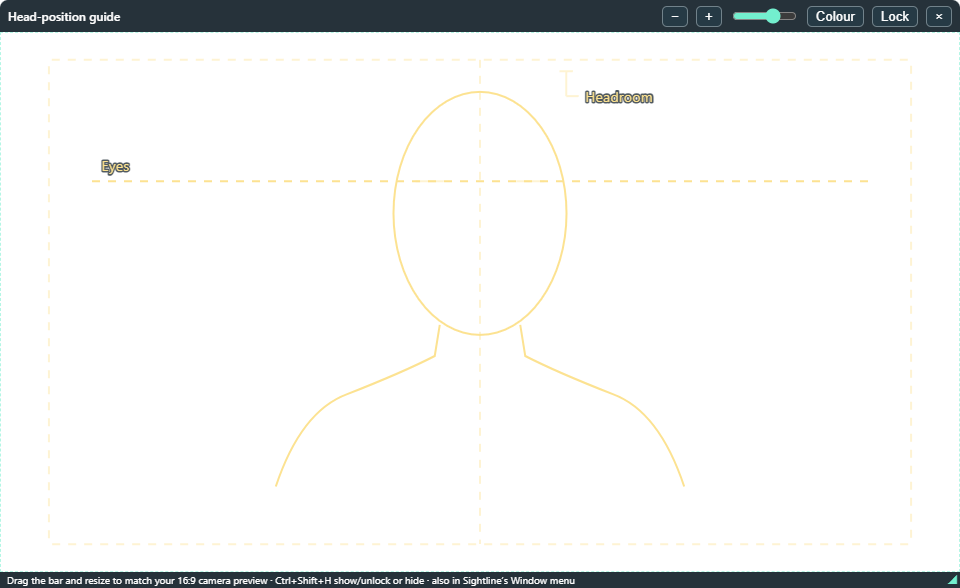
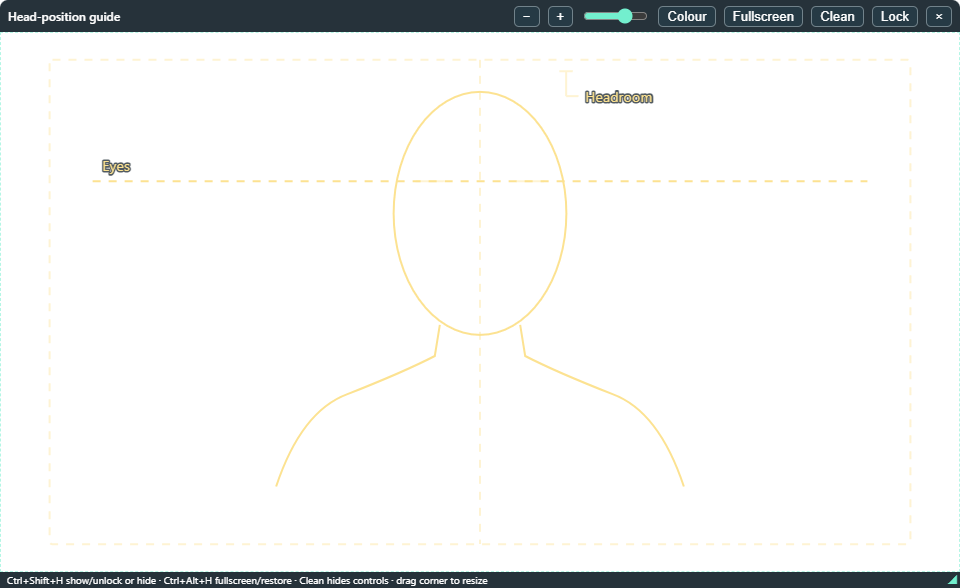
Add fullscreen projector stacking and chromeless head guide

diff --git a/src/head-guide.js b/src/head-guide.js
@@ -1,41 +1,73 @@
 // A framing aid above the camera preview, never an OBS scene source.
 import { BrowserWindow, globalShortcut, ipcMain, screen } from "electron";
 import path from "node:path";
+import { fitInside } from "./utils/fit.js";
 
 const HOTKEY = "CommandOrControl+Shift+H";
-export function createHeadGuide( { dir, prompter, getSettings, saveSettings, saveBounds, onChange } ) {
+const FULLSCREEN_HOTKEY = "CommandOrControl+Alt+H";
+export function createHeadGuide( { dir, prompter, getSettings, saveSettings, saveBounds, onChange, restoreStack } ) {
 	let overlay = null;
 	let locked = false;
 	let resizing = null;
 	let saveTimer;
+	let fullscreen = false;
+	let normalBounds = null;
 	const state = () => {
 		const s = getSettings();
-		return { locked, scale: Math.max( 0.7, Math.min( 1.4, Number( s.headGuideScale ) || 1 ) ), opacity: Math.max( 0.2, Math.min( 1, Number( s.headGuideOpacity ) || 0.75 ) ), colour: s.headGuideColour === "gold" ? "gold" : "mint" };
+		return { locked, fullscreen, chromeless: s.headGuideChromeless === true, scale: Math.max( 0.7, Math.min( 1.4, Number( s.headGuideScale ) || 1 ) ), opacity: Math.max( 0.2, Math.min( 1, Number( s.headGuideOpacity ) || 0.75 ) ), colour: s.headGuideColour === "gold" ? "gold" : "mint" };
 	};
 	const send = () => overlay?.webContents.send( "headGuideState", state() );
 	function remember() {
 		clearTimeout( saveTimer );
 		saveTimer = setTimeout( () => {
-			if ( overlay ) saveBounds( overlay.getBounds() );
+			if ( overlay && !fullscreen ) saveBounds( overlay.getBounds() );
 		}, 200 );
 	}
 	function unlock() {
 		if ( !overlay ) return;
 		locked = false;
+		saveSettings( { headGuideChromeless: false } );
 		overlay.setIgnoreMouseEvents( false );
-		overlay.show();
+		overlay.showInactive();
+		restack();
 		send();
 		onChange();
 	}
 	function close() {
 		clearTimeout( saveTimer );
 		if ( overlay ) {
-			saveBounds( overlay.getBounds() );
+			saveBounds( fullscreen ? normalBounds : overlay.getBounds() );
 			overlay.destroy();
 		}
 		overlay = null;
 		locked = false;
 		resizing = null;
+		fullscreen = false;
+		normalBounds = null;
+		if ( !prompter.isDestroyed() ) restoreStack();
+	}
+	function restack() {
+		if ( !overlay || prompter.isDestroyed() ) return;
+		overlay.setAlwaysOnTop( true, "floating" );
+		overlay.moveTop();
+		prompter.setAlwaysOnTop( true, "screen-saver" );
+		prompter.moveTop();
+	}
+	function fitMode() {
+		if ( !overlay ) return;
+		const wanted = getSettings().headGuideFullscreen === true;
+		if ( wanted && !fullscreen ) normalBounds = overlay.getBounds();
+		if ( wanted ) {
+			fullscreen = true;
+			overlay.setBounds( screen.getDisplayMatching( overlay.getBounds() ).bounds );
+		} else if ( fullscreen ) {
+			fullscreen = false;
+			overlay.setBounds( fitInside( normalBounds, screen.getDisplayMatching( normalBounds ).workArea ) );
+		}
+	}
+	function toggleFullscreen() {
+		const next = !overlay || !getSettings().headGuideFullscreen;
+		saveSettings( { showHeadGuide: true, headGuideFullscreen: next, headGuideChromeless: next } );
 	}
 	function apply() {
 		if ( !getSettings().showHeadGuide ) {
@@ -54,7 +86,11 @@ export function createHeadGuide( { dir, prompter, getSettings, saveSettings, sav
 			// Independent of the prompter's Hide from capture preference.
 			overlay.setContentProtection( true );
 			overlay.loadFile( path.join( dir, "client", "head-guide.html" ) );
-			overlay.once( "ready-to-show", () => overlay?.show() );
+			overlay.once( "ready-to-show", () => {
+				overlay?.showInactive();
+				restack();
+			} );
+			overlay.on( "focus", restack );
 			overlay.on( "move", remember );
 			overlay.on( "close", ( event ) => {
 				event.preventDefault();
@@ -63,10 +99,12 @@ export function createHeadGuide( { dir, prompter, getSettings, saveSettings, sav
 			overlay.webContents.on( "will-navigate", event => event.preventDefault() );
 			overlay.webContents.setWindowOpenHandler( () => ( { action: "deny" } ) );
 		}
+		fitMode();
+		restack();
 		send();
 	}
 	function toggle() {
-		if ( overlay && locked ) unlock();
+		if ( overlay && ( locked || getSettings().headGuideChromeless ) ) unlock();
 		else saveSettings( { showHeadGuide: !getSettings().showHeadGuide } );
 	}
 	function action( event, name, value ) {
@@ -76,12 +114,17 @@ export function createHeadGuide( { dir, prompter, getSettings, saveSettings, sav
 			toggle();
 			return;
 		}
+		if ( name === "fullscreen" ) {
+			toggleFullscreen();
+			return;
+		}
 		if ( !fromOverlay ) return;
 		if ( name === "ready" ) {
 			send();
-			if ( !hotkeyRegistered ) prompter.webContents.send( "toast", "Head guide hotkey is in use. Use the Window menu or Stream Deck to unlock or hide it." );
+			if ( !hotkeyRegistered || !fullscreenHotkeyRegistered ) prompter.webContents.send( "toast", "A head guide hotkey is in use. Use the Window menu or Stream Deck for the guide controls." );
 		}
 		if ( name === "hide" ) saveSettings( { showHeadGuide: false } );
+		if ( name === "chrome" ) saveSettings( { headGuideChromeless: !getSettings().headGuideChromeless } );
 		if ( name === "lock" ) {
 			locked = true;
 			send();
@@ -95,7 +138,7 @@ export function createHeadGuide( { dir, prompter, getSettings, saveSettings, sav
 			if ( Object.keys( patch ).length ) saveSettings( patch );
 		}
 		if ( name === "colour" ) saveSettings( { headGuideColour: state().colour === "mint" ? "gold" : "mint" } );
-		if ( name === "resize-start" ) resizing = { cursor: screen.getCursorScreenPoint(), bounds: overlay.getBounds() };
+		if ( name === "resize-start" && !fullscreen ) resizing = { cursor: screen.getCursorScreenPoint(), bounds: overlay.getBounds() };
 		if ( name === "resize-end" ) {
 			resizing = null;
 			remember();
@@ -108,12 +151,27 @@ export function createHeadGuide( { dir, prompter, getSettings, saveSettings, sav
 	}
 	ipcMain.on( "headGuideAction", action );
 	const hotkeyRegistered = globalShortcut.register( HOTKEY, toggle );
+	const fullscreenHotkeyRegistered = globalShortcut.register( FULLSCREEN_HOTKEY, toggleFullscreen );
+	const displaysChanged = () => {
+		if ( !overlay ) return;
+		if ( fullscreen ) fitMode();
+		else overlay.setBounds( fitInside( overlay.getBounds(), screen.getDisplayMatching( overlay.getBounds() ).workArea ) );
+		send();
+		restack();
+	};
+	screen.on( "display-removed", displaysChanged );
+	screen.on( "display-metrics-changed", displaysChanged );
+	prompter.on( "focus", restack );
 	return {
-		apply, toggle, isLocked: () => locked,
+		apply, toggle, toggleFullscreen, restack, isLocked: () => locked,
 		dispose() {
 			close();
 			ipcMain.removeListener( "headGuideAction", action );
 			if ( hotkeyRegistered ) globalShortcut.unregister( HOTKEY );
+			if ( fullscreenHotkeyRegistered ) globalShortcut.unregister( FULLSCREEN_HOTKEY );
+			screen.removeListener( "display-removed", displaysChanged );
+			screen.removeListener( "display-metrics-changed", displaysChanged );
+			prompter.removeListener( "focus", restack );
 		}
 	};
 }

diff --git a/src/main.js b/src/main.js
@@ -148,6 +148,8 @@ const defaultSettings = {
 	headGuideScale: 1,
 	headGuideOpacity: 0.75,
 	headGuideColour: "mint",
+	headGuideFullscreen: false,
+	headGuideChromeless: false,
 	showControl: false, // the control window for the operator screen (Ctrl+Shift+O)
 	controlBounds: null, // where the control window was left
 	prompterDisplay: null, // monitor id: open the prompter full screen there
@@ -419,6 +421,7 @@ function applyWindowSettings( win, wasEyeLine ) {
 	// Click-through: the renderer turns mouse events back on while the pointer
 	// is over the control bar or a panel, so the controls stay usable.
 	win.setIgnoreMouseEvents( !!settings.clickThrough, { forward: true } );
+	framingGuide?.restack();
 }
 
 const emptySlotHtml = index =>
@@ -1214,6 +1217,7 @@ const createWindow = ( state ) => {
 			reloadGoogleDoc: () => refreshGoogleDoc( currentFilePath, true ),
 			openGuide: page => guide.open( page ),
 			toggleHeadGuide: () => framingGuide?.toggle(),
+			toggleHeadGuideFullscreen: () => framingGuide?.toggleFullscreen(),
 			isMaximized: windowMode === "maximized",
 			displays: displayList()
 		} );
@@ -1428,7 +1432,8 @@ app.whenReady().then( async () => {
 		"scroll-mode", // steady or voice scrolling
 		"pad", // the floating control pad open or closed
 		"control", // the control window open or closed
-		"head-guide" // show/unlock or hide the framing overlay
+		"head-guide", // show/unlock or hide the framing overlay
+		"head-guide-fullscreen" // fullscreen framing overlay / restore
 	];
 
 	// The prompter's state, for GET /status and the GET /events stream.
@@ -1447,6 +1452,8 @@ app.whenReady().then( async () => {
 		showControl: !!settings.showControl,
 		showHeadGuide: !!settings.showHeadGuide,
 		headGuideLocked: framingGuide?.isLocked() ?? false,
+		headGuideFullscreen: !!settings.headGuideFullscreen,
+		headGuideChromeless: !!settings.headGuideChromeless,
 		windowMode,
 		...rendererStatus,
 		commands: REMOTE_COMMANDS
@@ -1638,7 +1645,8 @@ app.whenReady().then( async () => {
 			settings.headGuideBounds = bounds;
 			if ( !win.isDestroyed() ) saveState( win );
 		},
-		onChange: () => publishRemoteState()
+		onChange: () => publishRemoteState(),
+		restoreStack: () => win.setAlwaysOnTop( windowMode === "fullscreen" || settings.eyeLine || settings.alwaysOnTop, windowMode === "fullscreen" ? "screen-saver" : "floating" )
 	} );
 	framingGuide.apply();
 	win.on( "closed", () => framingGuide.dispose() );

diff --git a/src/client/head-guide.css b/src/client/head-guide.css
@@ -1,6 +1,6 @@
 * { box-sizing: border-box; }
 html, body { margin: 0; width: 100%; height: 100%; overflow: hidden; background: transparent; font: 13px 'Segoe UI', sans-serif; color: #fff; }
-header { height: 32px; display: flex; align-items: center; gap: 8px; padding: 0 8px; background: #15222bed; border-radius: 8px 8px 0 0; -webkit-app-region: drag; }
+header { position: relative; z-index: 2; height: 32px; display: flex; align-items: center; gap: 8px; padding: 0 8px; background: #15222bed; border-radius: 8px 8px 0 0; -webkit-app-region: drag; }
 header strong { margin-right: auto; text-wrap: balance; font-size: 12px; font-weight: 500; min-width: 0; }
 button, input { -webkit-app-region: no-drag; }
 button { border: 1px solid #71828a; border-radius: 5px; padding: 2px 8px; background: #263a45; color: #fff; cursor: pointer; }
@@ -18,3 +18,9 @@ footer { position: absolute; bottom: 0; left: 0; right: 0; height: 16px; backgro
 #resize::after { content: '◢'; position: absolute; bottom: 0; right: 2px; color: #72efce; }
 body.locked header, body.locked footer, body.locked #resize { visibility: hidden; }
 body.locked #stage { border-color: transparent; }
+body.chromeless header, body.chromeless footer, body.chromeless #resize { visibility: hidden; }
+body.chromeless #stage { border-color: transparent; }
+body.fullscreen #stage { inset: 0; border: 0; }
+body.fullscreen header, body.fullscreen footer { z-index: 2; }
+body.fullscreen header { -webkit-app-region: no-drag; }
+body.fullscreen #resize { display: none; }

diff --git a/src/client/teleprompter.js b/src/client/teleprompter.js
@@ -3605,6 +3605,7 @@ function menuGroups() {
 			heading: "Window",
 			items: [
 				[ "◎", "Head-position guide / unlock", "Ctrl+Shift+H", () => window.electron.headGuide(), { checked: !!settings.showHeadGuide } ],
+				[ "⛶", "Head guide fullscreen / restore", "Ctrl+Alt+H", () => window.electron.headGuide( "fullscreen" ), { checked: !!settings.showHeadGuide && !!settings.headGuideFullscreen } ],
 				[
 					"▦",
 					"Control pad (floating buttons)",
@@ -4815,6 +4816,10 @@ function runRemoteAction( action, value ) {
 		obsUi.action( "stop" );
 		return;
 	}
+	if ( action === "head-guide" || action === "head-guide-fullscreen" ) {
+		window.electron.headGuide( action === "head-guide" ? "toggle" : "fullscreen" );
+		return;
+	}
 	if ( isEditMode && action !== "help" ) return;
 	if ( action === "play" && ( !isScrolling() || offScript ) ) toggleAutoScrollSession();
 	else if ( action === "pause" && isScrolling() ) toggleAutoScrollSession();
@@ -4857,7 +4862,6 @@ function runRemoteAction( action, value ) {
 	else if ( action === "scroll-mode" ) window.electron.saveSettings( { scrollMode: settings.scrollMode === "voice" ? "steady" : "voice" } );
 	else if ( action === "pad" ) window.electron.saveSettings( { showPad: !settings.showPad } );
 	else if ( action === "control" ) window.electron.saveSettings( { showControl: !settings.showControl } );
-	else if ( action === "head-guide" ) window.electron.headGuide();
 	sendStatus();
 }
 window.electron.onRemoteCommand( runRemoteAction );

diff --git a/src/client/head-guide.html b/src/client/head-guide.html
@@ -13,11 +13,13 @@
 <button id="bigger" title="Larger head outline">+</button>
 <input id="opacity" aria-label="Guide opacity" title="Guide opacity" type="range" min="20" max="100" value="75">
 <button id="colour" title="Switch guide colour">Colour</button>
+<button id="fullscreen" title="Fill this screen / restore · Ctrl+Alt+H">Fullscreen</button>
+<button id="chrome" title="Hide controls · Ctrl+Shift+H to restore">Clean</button>
 <button id="lock" title="Click-through. Ctrl+Shift+H to show and unlock">Lock</button>
 <button id="close" aria-label="Close guide">×</button>
 </header>
 <div id="stage">
-<svg viewBox="0 0 1000 562.5" preserveAspectRatio="none" aria-label="Camera framing guide">
+<svg viewBox="0 0 1000 562.5" preserveAspectRatio="xMidYMid meet" aria-label="Camera framing guide">
 <rect class="line quiet dashed" x="50" y="28" width="900" height="506.5" rx="3"/>
 <path class="line quiet dashed" d="M500 28V534"/>
 <path class="line dashed" d="M95 155H905"/>
@@ -31,7 +33,7 @@
 <path class="line quiet" d="M603 66H590M590 40V66M583 40H597"/>
 </svg>
 </div>
-<footer>Drag the bar and resize to match your 16:9 camera preview · Ctrl+Shift+H show/unlock or hide · also in Sightline’s Window menu</footer>
+<footer>Ctrl+Shift+H show/unlock or hide · Ctrl+Alt+H fullscreen/restore · Clean hides controls · drag corner to resize</footer>
 <div id="resize" title="Drag to resize"></div>
 <script type="module" src="head-guide.js"></script>
 </body>

diff --git a/src/client/head-guide.js b/src/client/head-guide.js
@@ -4,8 +4,13 @@ let scale = 1;
 let resize = false;
 document.querySelector( "#close" ).onclick = () => guide.action( "hide" );
 document.querySelector( "#lock" ).onclick = () => guide.action( "lock" );
+document.querySelector( "#fullscreen" ).onclick = () => guide.action( "fullscreen" );
+document.querySelector( "#chrome" ).onclick = () => guide.action( "chrome" );
 guide.onState( ( value ) => {
 	document.body.classList.toggle( "locked", value.locked );
+	document.body.classList.toggle( "fullscreen", value.fullscreen );
+	document.body.classList.toggle( "chromeless", value.chromeless );
+	document.querySelector( "#fullscreen" ).textContent = value.fullscreen ? "Restore" : "Fullscreen";
 	scale = value.scale;
 	document.querySelector( "#head" ).setAttribute( "transform", `translate(500 155) scale(${ scale }) translate(-500 -155)` );
 	document.querySelector( "#opacity" ).value = value.opacity * 100;

diff --git a/src/client/shortcuts.js b/src/client/shortcuts.js
@@ -93,6 +93,7 @@ export const SHORTCUTS = [
 			[ [ "Ctrl+Shift+X" ], "Click-through on / off (works from any app)" ],
 			[ [ "Ctrl+Shift+P" ], "Floating control pad: Start / Pause, Top, Previous, Next" ],
 			[ [ "Ctrl+Shift+H" ], "Head-position guide: show and unlock, or hide (works from any app)" ],
+			[ [ "Ctrl+Alt+H" ], "Head guide fullscreen on this screen / restore (works from any app)" ],
 			[ [ "Ctrl+Shift+O" ], "Control window: a live, upright copy of the script with the buttons, for the operator screen" ],
 			[ [ "Ctrl+," ], "Settings" ],
 			[ [ "F1", "?" ], "This help" ],

diff --git a/src/menus.js b/src/menus.js
@@ -23,6 +23,7 @@ export function buildMenus(
 		reloadGoogleDoc,
 		openGuide,
 		toggleHeadGuide,
+		toggleHeadGuideFullscreen,
 		displays = []
 	}
 ) {
@@ -281,6 +282,12 @@ export function buildMenus(
 					type: "checkbox",
 					checked: !!settings.showHeadGuide,
 					click: () => toggleHeadGuide?.()
+				},
+				{
+					label: "Head Guide Fullscreen / Restore (Ctrl+Alt+H)",
+					type: "checkbox",
+					checked: !!settings.showHeadGuide && !!settings.headGuideFullscreen,
+					click: () => toggleHeadGuideFullscreen?.()
 				},
 				{
 					label: "Keep on Top",

diff --git a/docs/guide/06-remotes-and-screens.md b/docs/guide/06-remotes-and-screens.md
@@ -15,10 +15,33 @@ claimed the hotkey, a toast explains how to recover through the menu or key.
 The guide remembers its position, size and appearance; it stays upright when
 the prompter is mirrored. **×** closes it. Closing Sightline closes it too.
 
+For the projector setup, put the **OBS Preview Projector at the bottom**, the
+**head guide in the middle**, and **Sightline text above**. While the guide is
+open, Sightline temporarily keeps the prompter above it, then restores your
+Keep on top preference when the guide closes. The prompter needs a transparent
+background to see the camera; the guide does not change that opacity for you.
+Check this order with your real projector, particularly if OBS's projector
+is itself set Always on top; turn that OBS option off if it competes.
+
+**Fullscreen** on the guide, **Ctrl+Alt+H** globally (Cmd+Alt+H on Mac), or the
+**Head guide fullscreen** Stream Deck action fills the guide's current monitor
+and hides its toolbar. It uses a borderless screen-sized window so the three
+layers can remain together. On a non-16:9 display, the guide keeps its shape
+with the same centered fit as a 16:9 camera projector. The next fullscreen
+press restores the saved window size and shows controls. It does not change
+OBS's projector mode or the prompter's own fullscreen setting.
+
+**Clean** hides the guide's toolbar/footer without resizing the window. The
+regular guide hotkey/key reveals controls or unlocks it without leaving
+fullscreen. **Lock** additionally passes clicks through. Windowed and
+fullscreen choices are remembered, as is the original window position.
+
 The companion Stream Deck development branch adds a **Head-position guide**
 action you can drag onto any key. It shows **OFF**, **ON** or **LOCK**, using
 Sightline's status feed. Older app versions flash an alert instead of sending
 an unsupported command. Existing sample-profile key assignments are unchanged.
+
+The separate **Head guide fullscreen** action shows **FULL** or **WIN**.
 
 This is a separate desktop window, not an OBS scene source. Camera-only OBS
 recordings do not include it. It always requests capture protection, even if

diff --git a/readme.md b/readme.md
@@ -222,6 +222,8 @@ Planned features and their order are in [ROADMAP.md](ROADMAP.md).
 
 ### Next release
 
+- **Head guide for an OBS projector stack (development):** borderless fullscreen on its current monitor, Clean to hide controls, and restoration of its windowed size. Global **Ctrl+Alt+H** and a second Stream Deck action toggle fullscreen; **Ctrl+Shift+H** reveals controls without leaving it. The guide stays above the projector with prompter text above the guide; the app restores the prompter's Keep on top preference when it closes. Check against a real OBS projector, especially its own Always on top option
+
 - **Floating head-position guide (development):** a transparent overlay with eye line, head and shoulder outline, size, opacity and colour controls. Open from **☰ > Window** or global **Ctrl+Shift+H** (Cmd+Shift+H on Mac). Show/unlock, then hide on the next press; Lock makes clicks pass through. Position and preferences are remembered. A matching Stream Deck action shows OFF, ON or LOCK. No OBS connection is required. It is not an OBS source; capture protection stays enabled independently of the prompter. Whole-screen capture needs a short recording check. On the OBS branch, awaiting merge and release
 
 - **Scroll mode, the pad and the control window from a remote:** the local API and the Stream Deck plugin (0.1.5) gain `scroll-mode` (steady or voice scrolling), `pad` (the floating control pad) and `control` (the control window, **Ctrl+Shift+O**), and the control window's broadcast row gains **Voice scroll**, lit while the prompter follows your voice. The keys light to match, so an AI on your Stream Deck's MCP profile can switch them too

diff --git a/ROADMAP.md b/ROADMAP.md
@@ -32,6 +32,12 @@ Joanne's test on her Stream Decks and the Marketplace listing. Its GitHub repo
 merged or released. Connection and isolated app tests use a simulated OBS
 server; a real OBS recording test is still required before release.
 
+The head-position guide (55) also supports borderless fullscreen/chromeless
+mode for the OBS projector → guide → prompter-text stack. Ctrl+Alt+H and a
+separate Stream Deck action toggle screen-fill and the saved window size;
+Ctrl+Shift+H reveals controls without leaving fullscreen. Real projector
+stacking and multiple-display checks remain before release.
+
 **Next, for 1.0.7:** Settings in its own window (48), built like the pad and
 regrouped. The policies (51) were approved for publication on 29 October.
 After that: code signing (27, which needs Joanne's accounts), 47 the

diff --git a/skills/sightline-session/SKILL.md b/skills/sightline-session/SKILL.md
@@ -68,6 +68,12 @@ containing `head-guide`. The global shortcut is Ctrl+Shift+H (Cmd on Mac).
 It is not an OBS source; do not promise exclusion from every display-capture
 method without checking. No script directive or video/audio capture is added.
 
+`command head-guide-fullscreen` opens/toggles borderless screen-fill on the
+guide's current display, with a window-size restore. Check advertised command
+support first. Status adds `headGuideFullscreen` and `headGuideChromeless`;
+Ctrl+Alt+H is the matching global shortcut. `head-guide` reveals controls
+without leaving fullscreen when the guide is locked or chromeless.
+
 `command <action> [value]`, where action is one of: `play`, `pause`,
 `toggle`, `restart`, `next-section`, `previous-section`,
 `go-to-section <n>` (the n-th `##` section), `faster`, `slower`,
